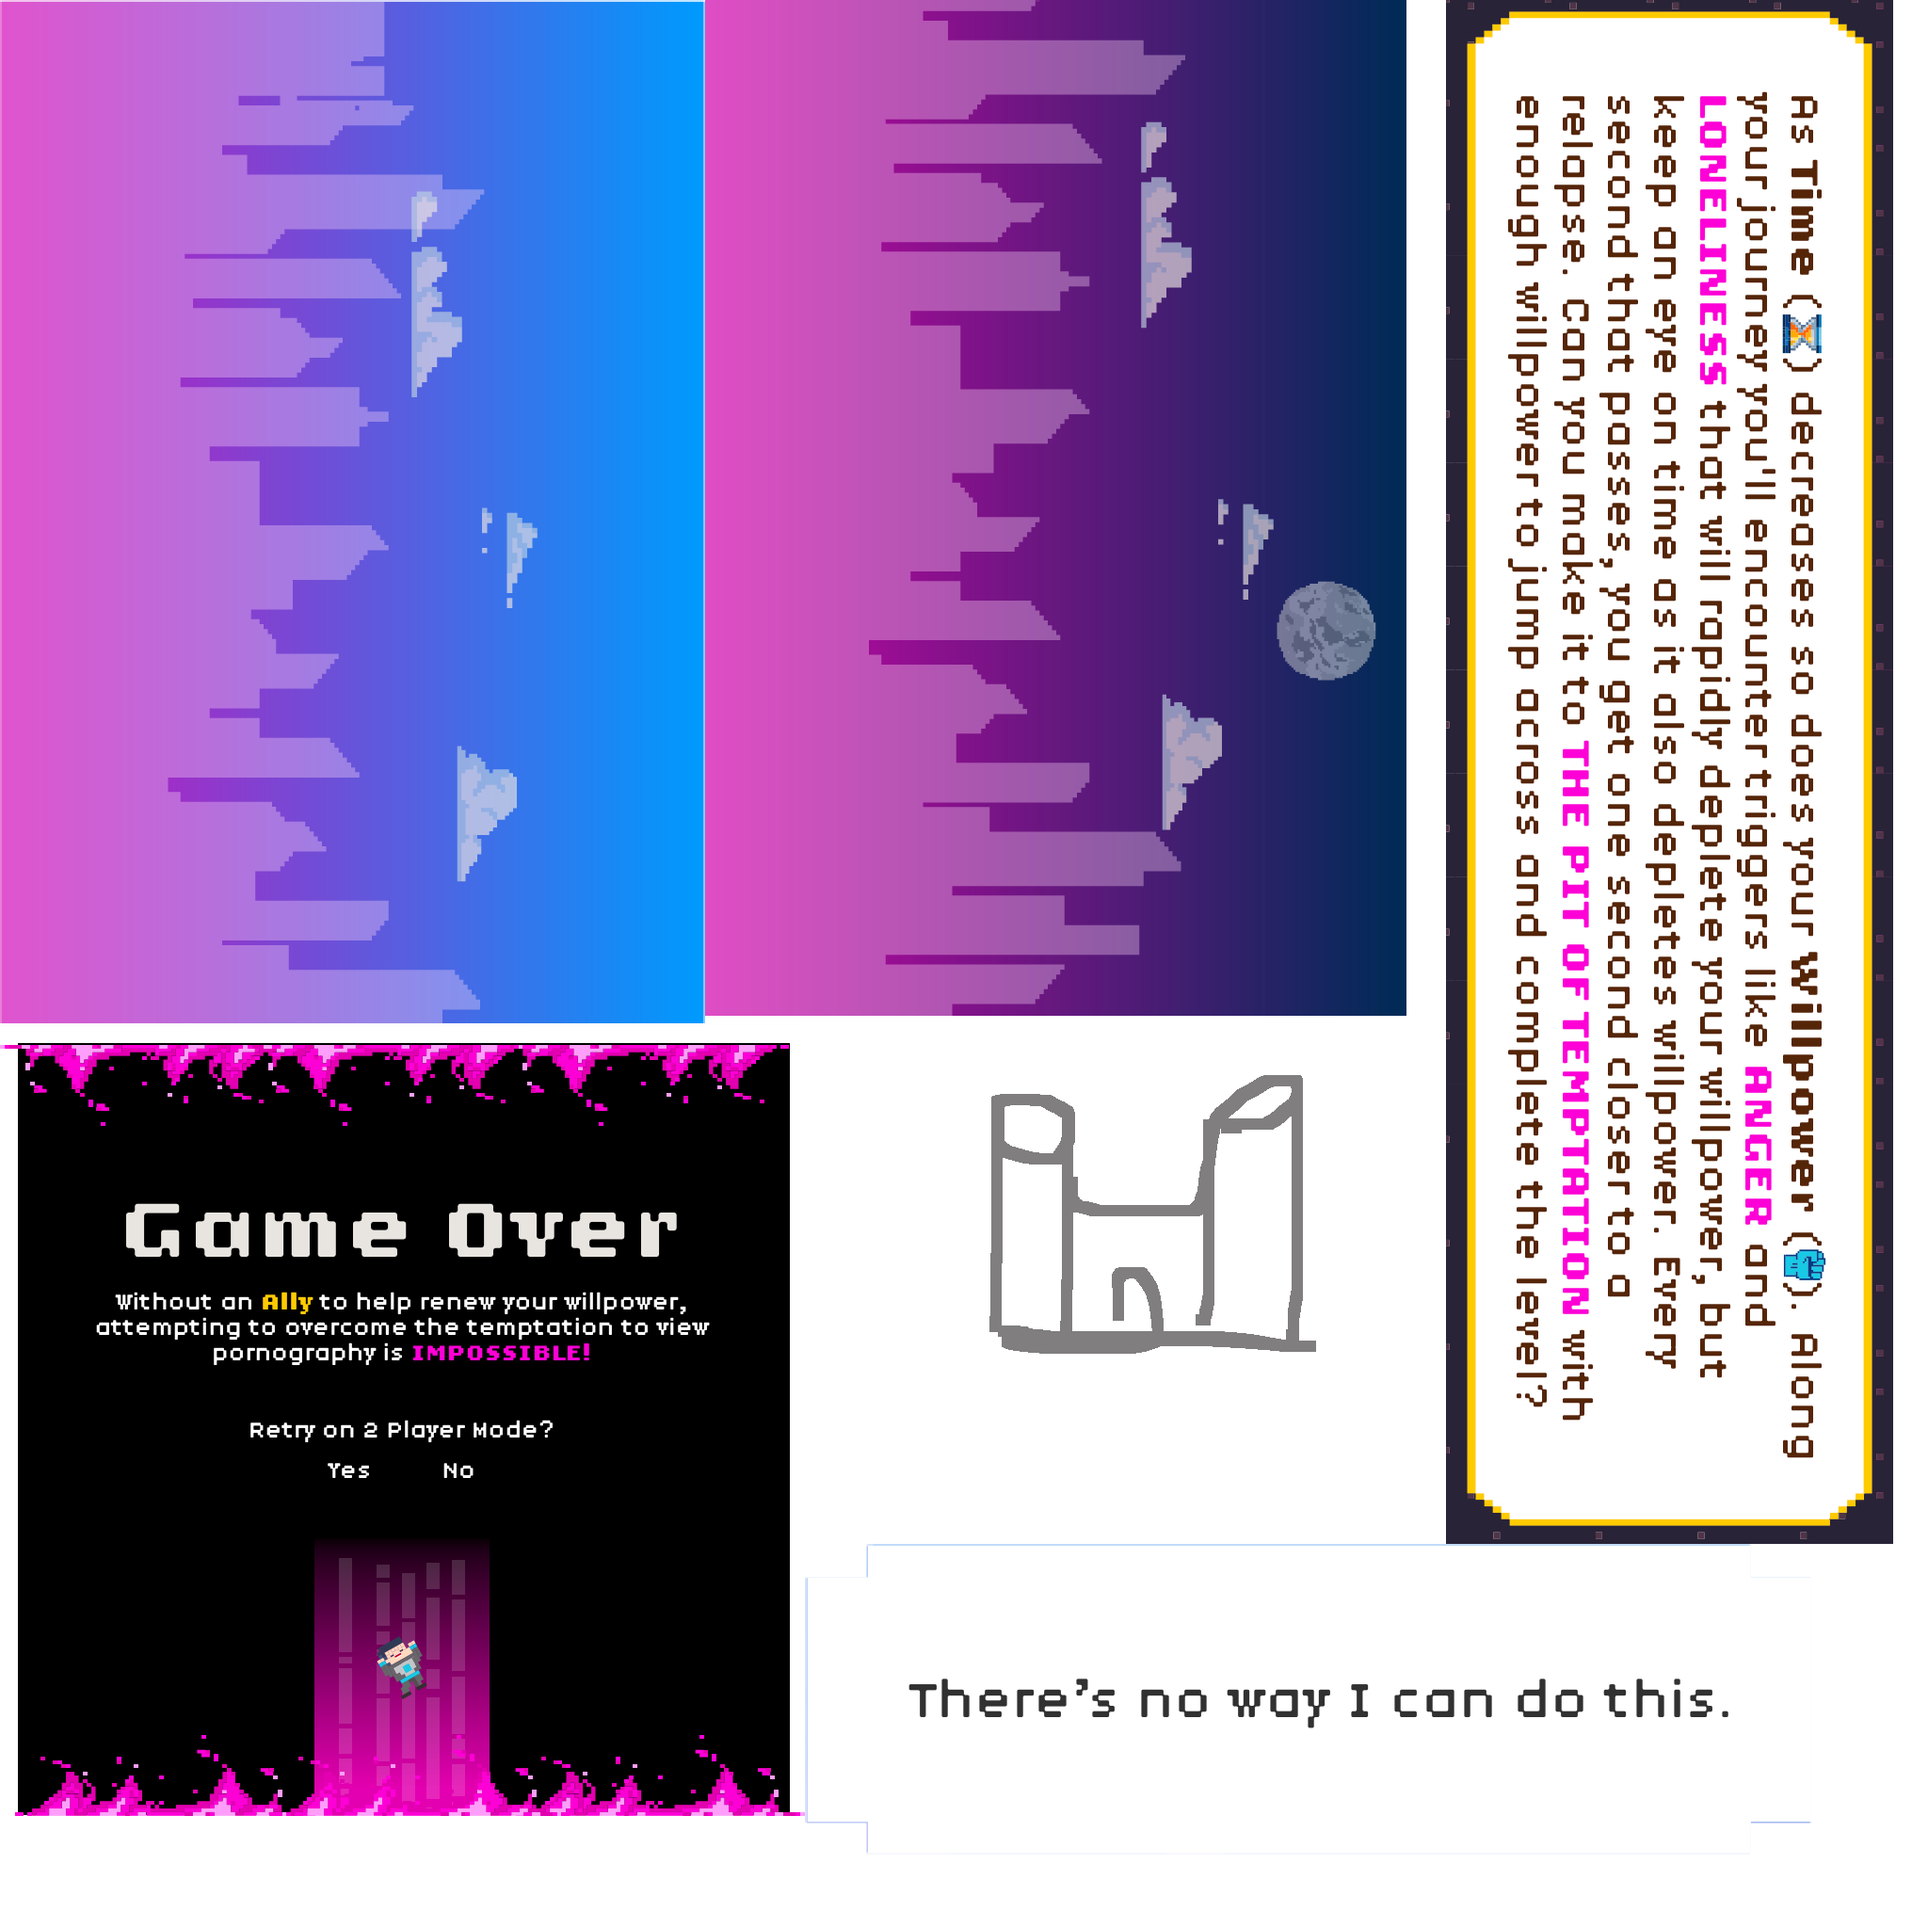
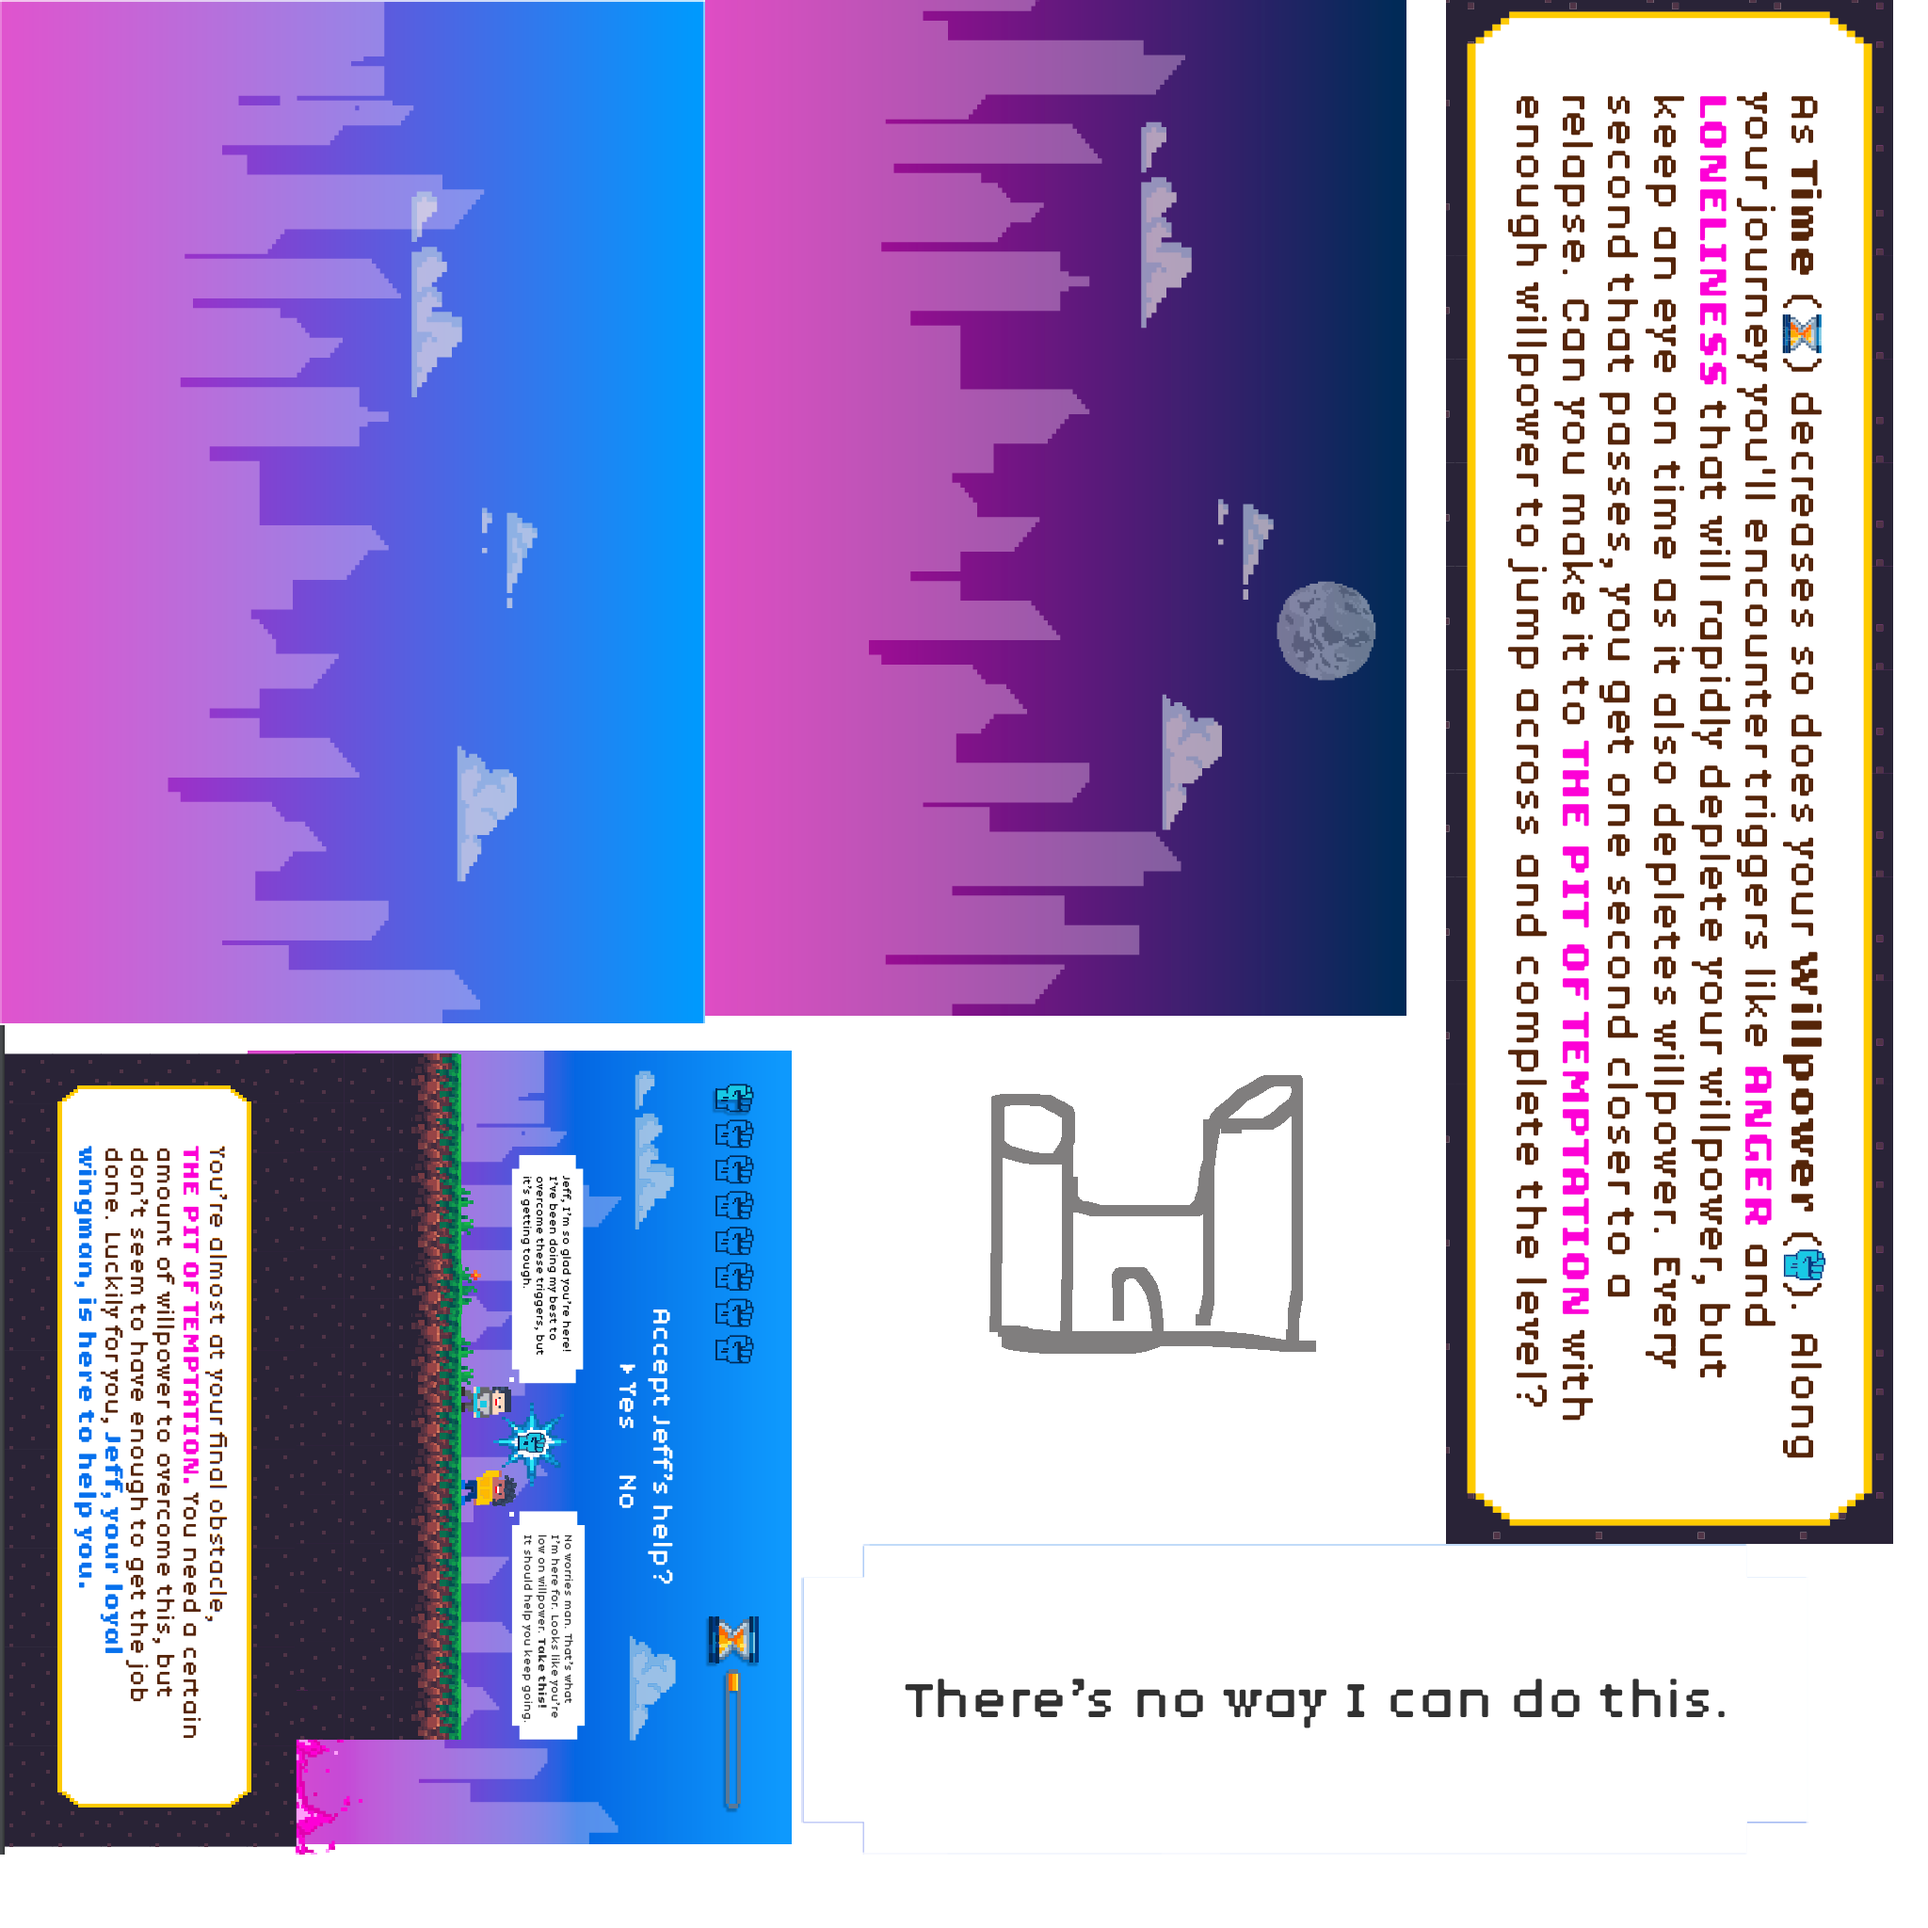
Add files via upload

Changed region(s): [[0.0, 0.5312, 0.4375, 0.9688], [0.4688, 0.875, 0.6875, 0.9062], [0.7188, 0.875, 0.875, 0.9062]]

diff --git a/scripts/c3runtime.js b/scripts/c3runtime.js
@@ -3934,6 +3934,7 @@ self.C3_GetObjectRefTable = function () {
 		C3.Plugins.System.Acts.SaveState,
 		C3.Plugins.Sprite.Cnds.CompareInstanceVar,
 		C3.Plugins.Sprite.Cnds.IsAnimPlaying,
+		C3.Behaviors.Platform.Cnds.IsEnabled,
 		C3.Behaviors.Platform.Cnds.IsJumping,
 		C3.Plugins.Sprite.Acts.SetAnim,
 		C3.Behaviors.Platform.Cnds.IsFalling,
@@ -3956,10 +3957,11 @@ self.C3_GetObjectRefTable = function () {
 		C3.Behaviors.Platform.Acts.SetIgnoreInput,
 		C3.Behaviors.Platform.Acts.SetVectorY,
 		C3.Plugins.Sprite.Cnds.OnCollision,
+		C3.Plugins.System.Cnds.CompareVar,
+		C3.Plugins.System.Acts.GoToLayout,
 		C3.Plugins.System.Acts.NextPrevLayout,
 		C3.Plugins.Sprite.Acts.Destroy,
 		C3.Plugins.System.Cnds.TriggerOnce,
-		C3.Plugins.System.Acts.GoToLayout,
 		C3.Plugins.Sprite.Acts.Spawn,
 		C3.Plugins.Sprite.Acts.SetSize,
 		C3.Plugins.Sprite.Exps.Width,
@@ -3969,6 +3971,8 @@ self.C3_GetObjectRefTable = function () {
 		C3.Plugins.System.Acts.CreateObject,
 		C3.Plugins.System.Exps.loopindex,
 		C3.Plugins.System.Exps.int,
+		C3.Plugins.System.Cnds.CompareBoolVar,
+		C3.Plugins.System.Acts.SetBoolVar,
 		C3.Plugins.Sprite.Exps.LayerName,
 		C3.Plugins.System.Exps.random,
 		C3.Plugins.Sprite.Exps.Y,
@@ -3983,7 +3987,16 @@ self.C3_GetObjectRefTable = function () {
 		C3.Plugins.Sprite.Acts.SetPos,
 		C3.Plugins.Sprite.Acts.SetVisible,
 		C3.Plugins.Tilemap.Acts.SetWidth,
+		C3.Behaviors.MoveTo.Acts.MoveToPosition,
+		C3.Behaviors.MoveTo.Cnds.OnArrived,
+		C3.Plugins.Sprite.Acts.StopAnim,
+		C3.Plugins.Text.Acts.SetVisible,
+		C3.Plugins.Text.Cnds.IsVisible,
 		C3.Plugins.Keyboard.Cnds.OnKey,
+		C3.Plugins.Sprite.Cnds.IsVisible,
+		C3.Behaviors.Sin.Acts.SetEnabled,
+		C3.Plugins.System.Acts.AddVar,
+		C3.Behaviors.Platform.Acts.SimulateControl,
 		C3.Plugins.System.Acts.SetVar
 	];
 };
@@ -4058,7 +4071,28 @@ self.C3_JsPropNameTable = [
 	{time_bar_orange: 0},
 	{time_remaining_bar_orange: 0},
 	{time_remaining: 0},
+	{Sprite3: 0},
+	{Sprite4: 0},
+	{Sprite5: 0},
+	{ScreenShot20211129At80653PM: 0},
+	{victory: 0},
+	{flag: 0},
+	{yellow_guy: 0},
+	{firework: 0},
+	{ScreenShot20211129At115025PM: 0},
+	{hand_powerup: 0},
+	{jeffimglad: 0},
+	{noworriesman: 0},
+	{ScreenShot20211129At115631PM: 0},
+	{acceptjeffshelp: 0},
+	{acceptjeffshelp2: 0},
+	{acceptjeffshelp3: 0},
+	{arrow_yes: 0},
+	{arrow_no: 0},
+	{Sprite6: 0},
+	{num_players: 0},
 	{time_initial: 0},
+	{hurt_willpower_lock: 0},
 	{amount: 0}
 ];
 }
@@ -4193,10 +4227,10 @@ self.C3_ExpressionFuncs = [
 		() => 1,
 		() => "spike",
 		() => "goal",
-		() => "willpower",
 		() => 2,
-		() => 2.5,
 		() => "4_1p",
+		() => "willpower",
+		() => 2.5,
 		() => 0.5,
 		p => {
 			const v0 = p._GetNode(0).GetVar();
@@ -4212,6 +4246,7 @@ self.C3_ExpressionFuncs = [
 		},
 		() => "fire",
 		() => "willpower hand",
+		() => "victory_2p",
 		() => "",
 		() => 8,
 		p => {
@@ -4271,13 +4306,31 @@ self.C3_ExpressionFuncs = [
 		() => "time remaining",
 		p => {
 			const v0 = p._GetNode(0).GetVar();
-			return () => (v0.GetValue() % 20);
-		},
-		p => {
-			const v0 = p._GetNode(0).GetVar();
 			const v1 = p._GetNode(1).GetVar();
 			return () => (180 * (v0.GetValue() / v1.GetValue()));
 		},
+		() => "firework",
+		() => "flag",
+		p => {
+			const f0 = p._GetNode(0).GetBoundMethod();
+			const f1 = p._GetNode(1).GetBoundMethod();
+			return () => f0(f1());
+		},
+		p => {
+			const f0 = p._GetNode(0).GetBoundMethod();
+			const f1 = p._GetNode(1).GetBoundMethod();
+			return () => f0(50, (f1() / 2));
+		},
+		() => "explode",
+		() => "jeff ask help",
+		() => "7_2p",
+		() => 400,
+		p => {
+			const n0 = p._GetNode(0);
+			return () => (n0.ExpObject() - 65);
+		},
+		() => 415,
+		() => 0.1,
 		() => "title_1p",
 		() => "title_2p",
 		() => "gameover_1p_yes",
